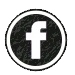
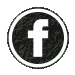
padding fix

diff --git a/index.html b/index.html
@@ -1,7 +1,12 @@
 <!DOCTYPE html>
-<html>
+<html lang="en">
 	<head>
+		<title>Erik Leon</title>
+		<meta name="viewport" content="width=device-width, initial-scale=1">
+		<link rel="stylesheet" href="http://maxcdn.bootstrapcdn.com/bootstrap/3.3.5/css/bootstrap.min.css">
 		<link href='main.css' rel='stylesheet' type='text/css'>
+
+
 	</head>
 
 	<body>
@@ -9,29 +14,20 @@
 			<div class="container">
 				<h1>Erik Leon</h1>
 				<img src="https://raw.githubusercontent.com/Noelkire/Noelkire.github.io/master/Me.jpeg" style="width:250px;height:250px;">
-				<p>Don't do me unless I do you</p>
+				<p>Create | Design | Solve</p>
 			</div>
 		</div>
->		<div class="social">
+		<div class="social">
 			<div class="container">
-				<ul>
-					<li><img src="https://raw.githubusercontent.com/Noelkire/Noelkire.github.io/master/fb_icon.jpg"></li>
-					<li><img src="https://raw.githubusercontent.com/Noelkire/Noelkire.github.io/master/instagram_icon.jpg"></li>
-					<li><img src="https://raw.githubusercontent.com/Noelkire/Noelkire.github.io/master/linkedin_icon.jpg"></li>
-				</ul>
-			</div>
-		</div>		
-			</div>
-		</div>
-		<div class ="nav">
-			<div class="container">
-			<ul>
-				<li>Home</li>
-				<li>Works</li>
-				<li>Photography</li>
-				<li>Contact</li>
-			</ul>
-			</div>
-		</div>
+				<div class="row">
+					<div class="col-md-4"><a href="https://www.facebook.com/erik.leon.52"><img src="https://raw.githubusercontent.com/Noelkire/Noelkire.github.io/master/fb_icon.jpg">
+					</div>
+	  				<div class="col-md-4"><a href="https://instagram.com/_noelkire/"><img src="https://raw.githubusercontent.com/Noelkire/Noelkire.github.io/master/instagram_icon.jpg">
+	  				</div>
+	  				<div class="col--4"><a href='www.linkedin.com/in/leonerik'><img src="https://raw.githubusercontent.com/Noelkire/Noelkire.github.io/master/linkedin_icon.jpg">
+	  				</div>
+	  			</div>
+	  		</div>
+	  	</div>
 	</body>
 </html>

diff --git a/main.css b/main.css
@@ -44,23 +44,12 @@ li {
 	margin-top: 0;
 }
 
-.btn:hover {
-	background: #117bff;
-	cursor: pointer; 
-	transition: background .5s;  
+.social .container {
+	padding: 0 320px;
+	margin: 0 auto;
 }
 
-
-/* Nav */
-.nav ul {
-	margin: 0 auto; 
-	padding: 30px 0;
-	text-align: center; 
-}
-
-.social li, img{
-	display: inline;
-	text-align: center;
-	height: 60px;
-	width: 60px;
+.social img{
+	height: 50px;
+	width: 50px;
 }
